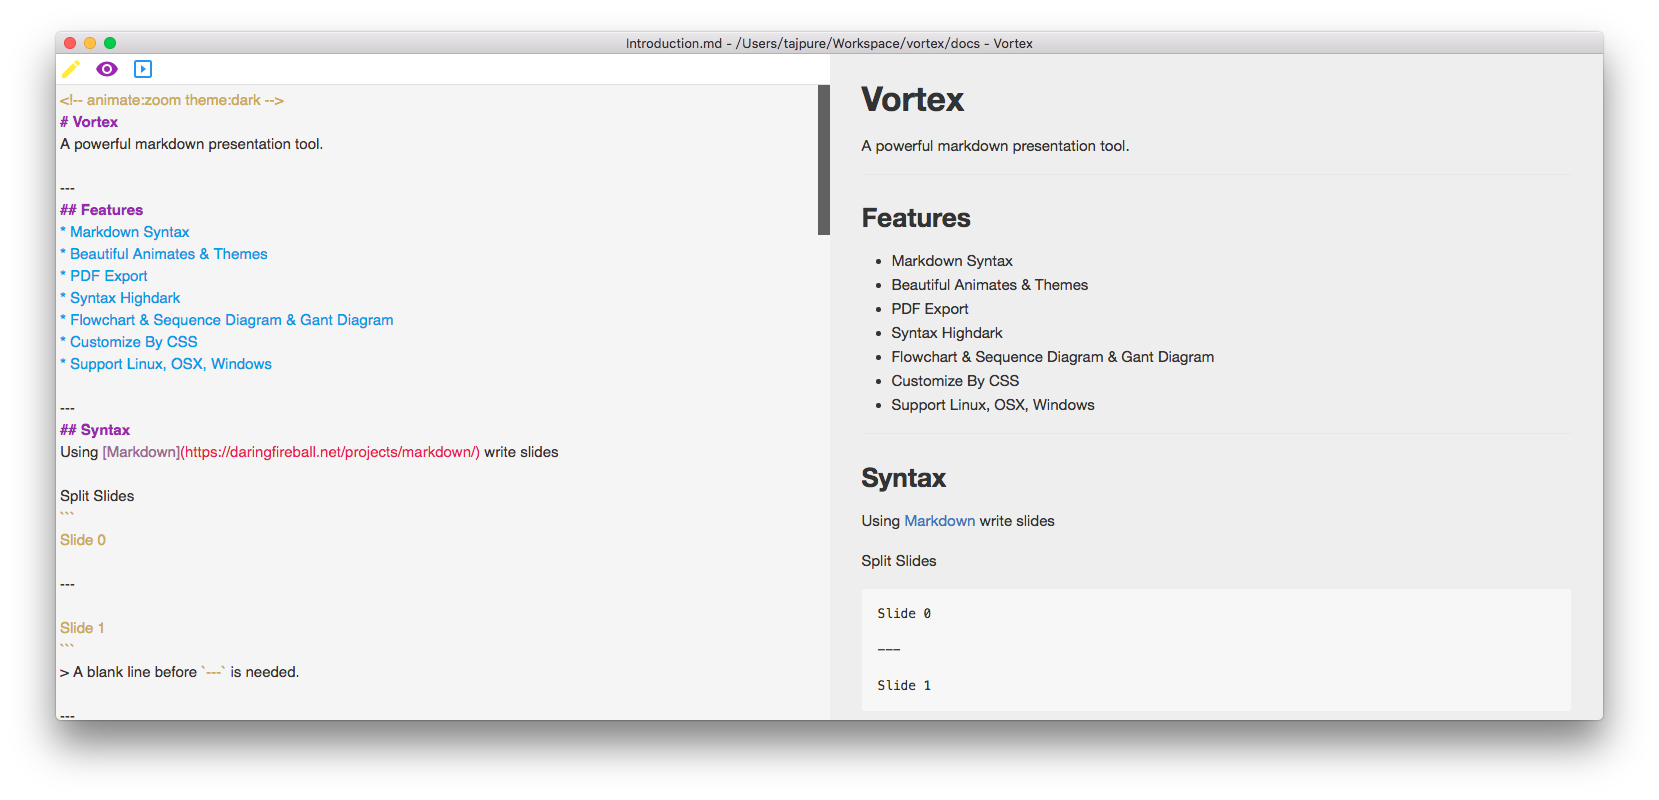
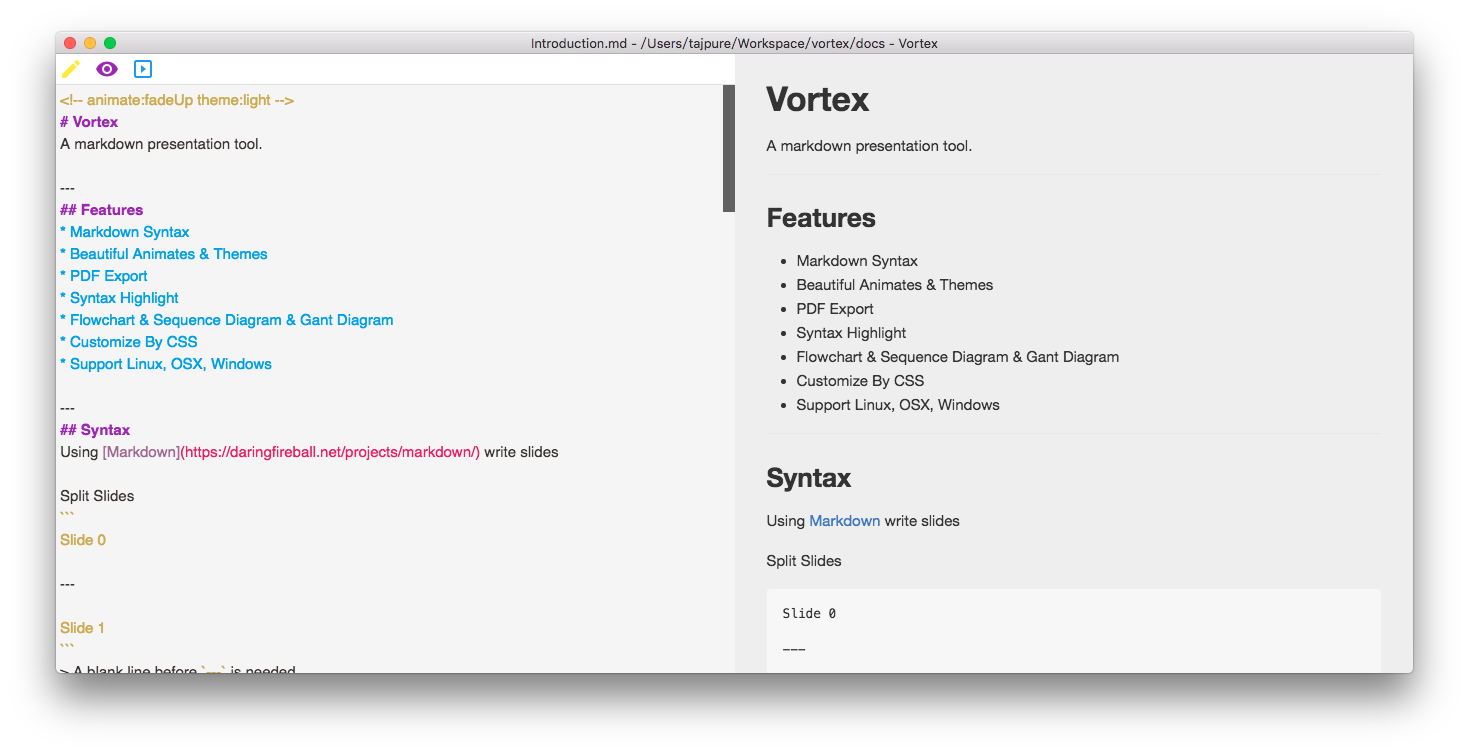
fixed spelling error

Changed region(s): [[0.0306, 0.0305, 0.9803, 0.9163], [0.4901, 0.2444, 0.7658, 0.5498], [0.5208, 0.5803, 0.6433, 0.8247]]

diff --git a/docs/Introduction.md b/docs/Introduction.md
@@ -1,13 +1,13 @@
 <!-- animate:fadeUp theme:light -->
 # Vortex
-A powerful markdown presentation tool.
+A markdown presentation tool.
 
 ---
 ## Features
 * Markdown Syntax
 * Beautiful Animates & Themes
 * PDF Export
-* Syntax Highdark
+* Syntax Highlight
 * Flowchart & Sequence Diagram & Gant Diagram
 * Customize By CSS
 * Support Linux, OSX, Windows
